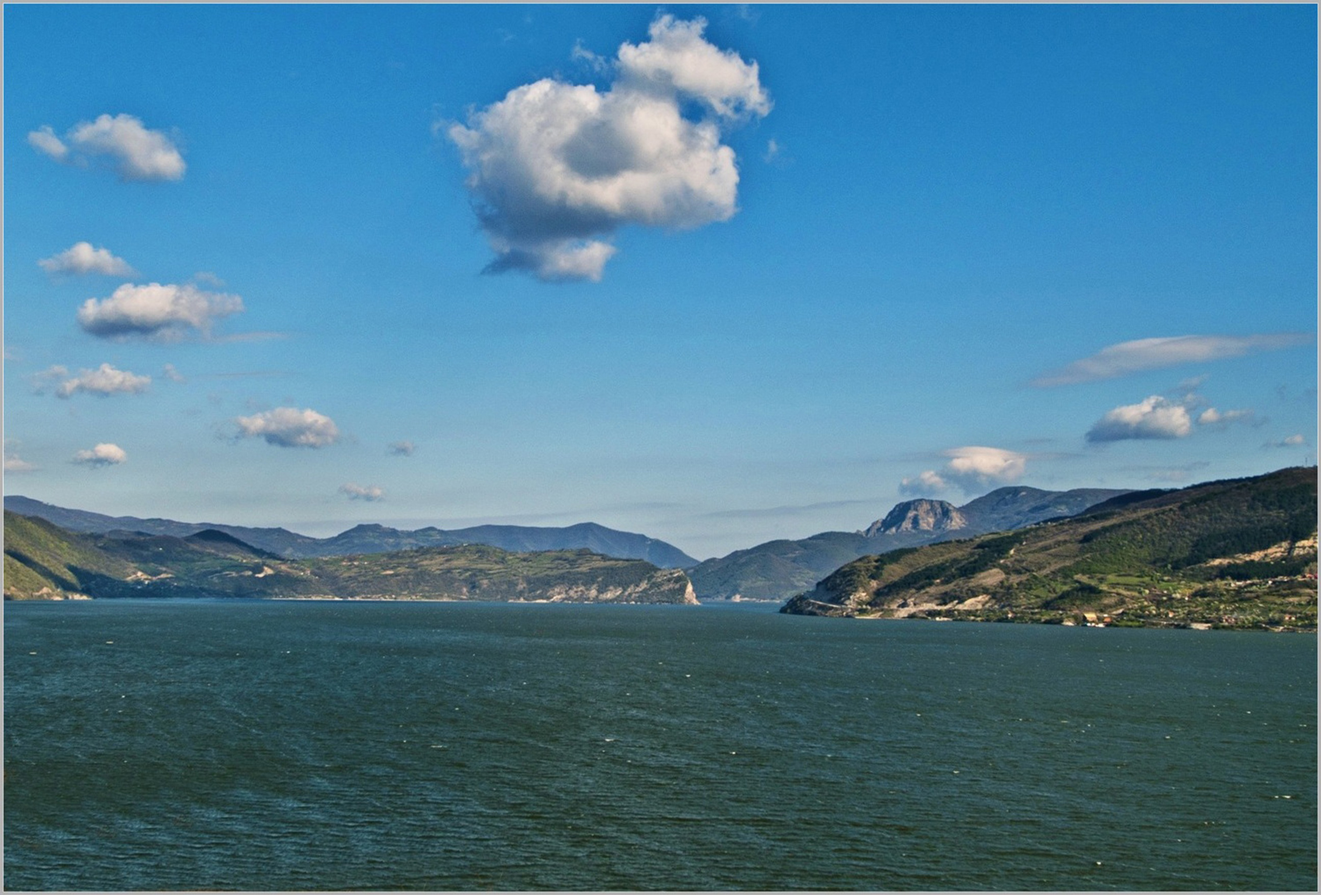
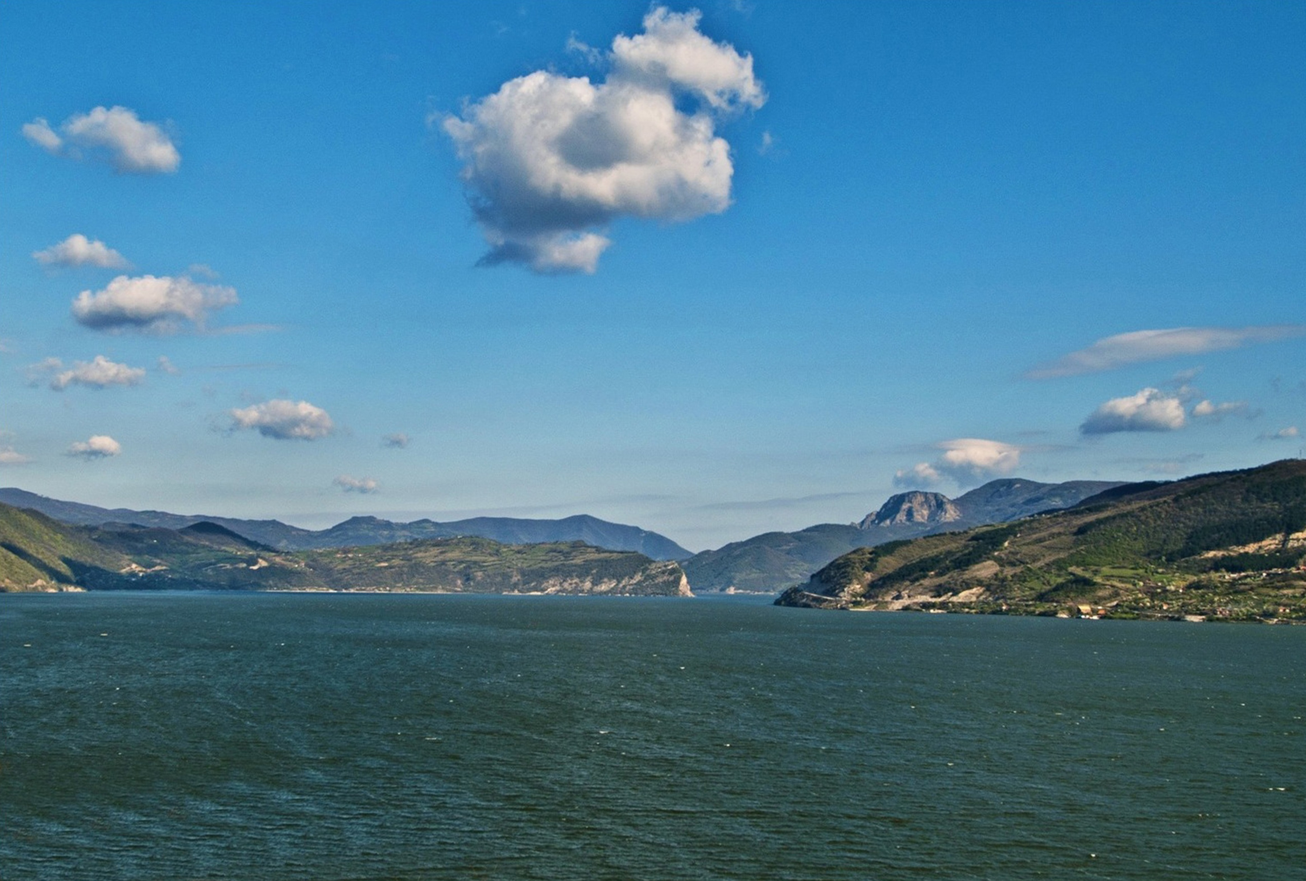
Updated image content

diff --git a/resources/sass/pages/contact.scss b/resources/sass/pages/contact.scss
@@ -68,7 +68,7 @@
         @include overlay;
         @include flex-center-colum;  
         position: relative;
-        background-image: url('../../public/img/content/majdanpek/majdanpek-starica.jpg');
+        background-image: url('../../public/img/content/dm/Dunav.jpg');
         background-size: cover;        
         background-repeat: no-repeat;
         background-position: center;

diff --git a/lang/en/about-majdanpek.php b/lang/en/about-majdanpek.php
@@ -3,11 +3,13 @@
 return [
 
   'head' => 'O Majdanpeku',
+  'izvor' => '<strong>Izvor informacija : <a href="https://sr.wikipedia.org" target="_blank" class="">Wikipedia - Slobodna online enciklopedija</a><strong>',
+
   'content' => [
     [
       'img' => [
         'link' => '#',
-        'src' => 'img/content/majdanpek/mpek-nocu.jpg',
+        'src' => 'img/content/majdanpek/Majdanpek 9.jpg',
       ],
 
       'title' => 'Opština Majdanpek',
@@ -38,7 +40,7 @@ return [
     [
       'img' => [
         'link' => '#',
-        'src' => 'img/content/majdanpek/mpek-nocu.jpg',
+        'src' => 'img/content/majdanpek/Majdanpek 14.jpg',
       ],
 
       'title' => 'Majdanpek',
@@ -57,7 +59,7 @@ return [
     [
       'img' => [
         'link' => '#',
-        'src' => 'img/content/majdanpek/spomenik.jpg',
+        'src' => 'img/content/majdanpek/turisticka_karta_2.jpg',
       ],
 
       'title' => 'Turizam',
@@ -70,6 +72,18 @@ return [
           kapaciteta 1.100 skijaša na sat. Lift savladava visinsku razliku od 200 metara i opslužuje dve skijaške 
           staze dužina 1.000 m i 1.200 m. Osim toga, skijalište Rajkovo raspolaže i motornim sankama i ski-tabačem za uređivanje staze.',
         ],
+
+      ],
+    ],
+
+    [
+      'img' => [
+        'link' => '#',
+        'src' => 'img/content/majdanpek/mpek.jpg',
+      ],
+
+      'title' => '',
+      'lead' => [
         [
           'text' => ' Pod Staricom, u mešovitoj šumi bukve, javora i hrasta smeštena je Rajkova pećina, na svega 3,5 
           kilometara od Majdanpeka, u čijoj okolini se nalazi 110 pećina i potkapina. Rajkova pećina je 
@@ -91,7 +105,47 @@ return [
     [
       'img' => [
         'link' => '#',
-        'src' => 'img/content/majdanpek/mpek.jpg',
+        'src' => 'img/content/majdanpek/Majdanpek 2.jpg',
+      ],
+
+      'title' => 'Crkva Svetih apostola Petra i Pavla',
+      'lead' => [
+        [
+          'text' => ' Crkva Svetih apostola Petra i Pavla izgrađena je u 
+                      periodu od 1856-1858. godine od strane srpske Vlade koja je 
+                      dovela stručnjake i radnike iz inostranstva, za rad u 
+                      obnovljenom rudniku. Stvarajući uslove da ih veže za srpsko 
+                      tle i pravoslavlje 1856. godine istovremeno je započela gradnja crkve, 
+                      škole, stambenih objekata i rudarskih postrojenja.
+                      Izrada plana crkve poverena je slikaru Urošu Kneževiću 
+                      koji se odlučio za tzv. „švajcarski stil“, rasprostranjen u Evropi  
+                      onog vremena. Posvećena je Sv. apostolima Petru i Pavlu koje su 
+                      majdanpečki rudari uzeli za svoje zaštitnike, pa se do danas, 
+                      12. jula, slavi i Slava rudnika i 
+                      Crkvena slava uz veliku svetkovinu celog grada.',
+        ],
+      ],
+    ],
+
+    [
+      'img' => [
+        'link' => '#',
+        'src' => 'img/content/majdanpek/spomenik2.jpg',
+      ],
+
+      'title' => 'Spomenik oslobodiocima Majdanpeka ',
+      'lead' => [
+        [
+          'text' => ' Spomenik podignut u čast palim borcima i civilima
+                      iz šireg regiona koji su stradali u toku NOB-a.',
+        ],
+      ],
+    ],
+
+    [
+      'img' => [
+        'link' => '#',
+        'src' => 'img/content/majdanpek/Majdanpek_1962.jpg',
       ],
 
       'title' => 'Istorija',
@@ -113,7 +167,7 @@ return [
     [
       'img' => [
         'link' => '#',
-        'src' => 'img/content/majdanpek/rudnik.jpg',
+        'src' => 'img/content/majdanpek/BAKARNI SUTON.jpg',
       ],
 
       'title' => '',
@@ -133,10 +187,12 @@ return [
       ],
     ],
 
+
+
     [
       'img' => [
         'link' => '#',
-        'src' => 'img/content/majdanpek/rudnik.jpg',
+        'src' => 'img/content/dm/DonjiMilanovac2.jpg',
       ],
 
       'title' => 'Donji Milanovac',

diff --git a/lang/en/sights.php b/lang/en/sights.php
@@ -208,7 +208,7 @@ return [
         // 'par6' => '',
 
 
-        'izvor' => 'Izvor informacija : Wikipedia - Slobodna online enciklopedija i Nacionalni park Đerdap',
+        'izvor' => '<strong>Izvor informacija : <a href="https://sr.wikipedia.org" target="_blank" class="">Wikipedia - Slobodna online enciklopedija</a> i <a href="https://npdjerdap.rs/?pismo=lat" target="_blank" class="">Nacionalni park Đerdap</a><strong>',
       ],
 
       [
@@ -266,7 +266,9 @@ return [
         // 'par5' => '',
         // 'par6' => '',
 
-        'izvor' => 'Izvor informacija : Wikipedia - Slobodna online enciklopedija i Turistička organizacija Majdanpek',
+        'izvor' => '
+        <strong>Izvor informacija : <a href="https://sr.wikipedia.org" target="_blank" class="">Wikipedia - Slobodna online enciklopedija</a> i <a href="https://www.toom.rs/" target="_blank" class="">Turistička organizacija Majdanpek</a> </strong>
+        ',
       ],
 
       [
@@ -317,7 +319,7 @@ return [
         // 'par5' => '',
         // 'par6' => '',
 
-        'izvor' => 'Izvor informacija : Wikipedia - Slobodna online enciklopedija i  Geopark Đerdap.',
+        'izvor' => '<strong>Izvor informacija : <a href="https://sr.wikipedia.org" target="_blank" class="">Wikipedia - Slobodna online enciklopedija</a> i <a href="https://geoparkdjerdap.rs/" target="_blank" class="">Geopark Đerdap</a><strong>',
       ],
 
       [
@@ -362,7 +364,7 @@ return [
         // 'par5' => '',
         // 'par6' => '',
 
-        'izvor' => 'Izvor informacija : Wikipedia - Slobodna online enciklopedija',
+        'izvor' => '<strong>Izvor informacija : <a href="https://sr.wikipedia.org" target="_blank" class="">Wikipedia - Slobodna online enciklopedija</a><strong>',
       ],
 
       [
@@ -404,7 +406,7 @@ return [
         // 'par5' => '',
         // 'par6' => '',
 
-        'izvor' => 'Izvor informacija : skijanje.rs',
+        'izvor' => '<strong>Izvor informacija : <a href="https://www.skijanje.rs/ski-centri/srbija/rajkovo-majdanpek/" target="_blank" class="">Skijanje.rs</a><strong>',
       ],
 
       [
@@ -455,7 +457,7 @@ return [
         // 'par5' => '',
         // 'par6' => '',
 
-        'izvor' => 'Izvor informacija : Wikipedia - Slobodna online enciklopedija',
+        'izvor' => '<strong>Izvor informacija : <a href="https://sr.wikipedia.org" target="_blank" class="">Wikipedia - Slobodna online enciklopedija</a><strong>',
       ],
 
       [ 
@@ -498,8 +500,8 @@ return [
         // 'par5' => '',
         // 'par6' => '',
 
-        'izvor' => 'Izvor informacija : Wikipedia - Slobodna online enciklopedija i nacionalni park Đerdap',
-      ],
+        'izvor' => '<strong>Izvor informacija : <a href="https://sr.wikipedia.org" target="_blank" class="">Wikipedia - Slobodna online enciklopedija</a> i <a href="https://npdjerdap.rs/?pismo=lat" target="_blank" class="">Nacionalni park Đerdap</a><strong>',
+        ],
 
     ],
   ],

diff --git a/lang/en/home.php b/lang/en/home.php
@@ -82,8 +82,8 @@ return [
                     'button_link' => '/sights/mpek',
                 ],
                 [
-                    'img' => 'img/content/majdanpek/mpek-nocu.jpg',
-                    'imgMobile' => 'img/content/majdanpek/mpek-nocu-mobile.jpg',
+                    'img' => 'img/content/majdanpek/Sneg 011.jpg',
+                    'imgMobile' => 'img/content/majdanpek/Sneg 011-mobile.jpg',
                     'title' => 'Manje poznato',
                     'text' => 'Upoznajte opštinu Majdanpek',
                     'button_text' => 'Pročitaj više',

diff --git a/resources/views/about-majdanpek.blade.php b/resources/views/about-majdanpek.blade.php
@@ -37,6 +37,9 @@
       </div>
     </div>
     @endforeach
+    <p class="text-center">
+      {!! __('about-majdanpek.izvor') !!}
+    </p>
 
     <div class="container map-con">
       <iframe src="https://www.google.com/maps/embed?pb=!1m10!1m8!1m3!1d7153.17189158862!2d21.9376631!3d44.425033!3m2!1i1024!2i768!4f13.1!5e1!3m2!1sen!2srs!4v1692987015529!5m2!1sen!2srs" class="map" style="border:0;" allowfullscreen="" loading="lazy" referrerpolicy="no-referrer-when-downgrade"></iframe>

diff --git a/resources/views/sight.blade.php b/resources/views/sight.blade.php
@@ -59,7 +59,7 @@
             </div>
             </div>
             <p class="text-center">
-              {{ $content['izvor'] }}
+              {!! $content['izvor'] !!}
             </p>
           @endforeach
         </div>
